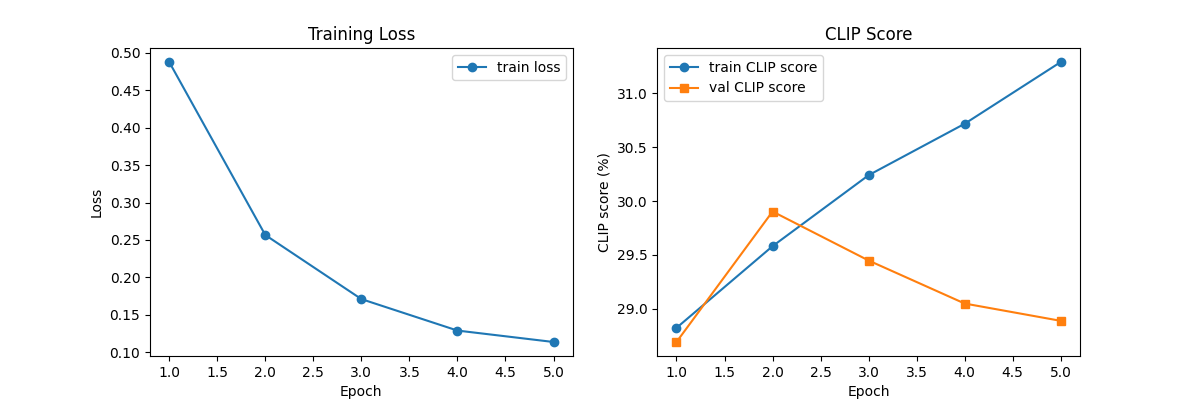
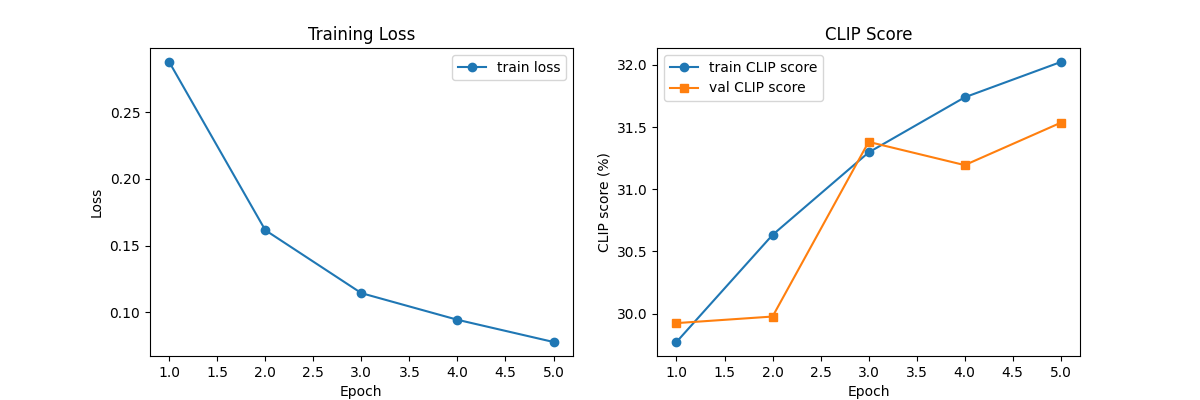
final

diff --git a/README.md b/README.md
@@ -31,7 +31,7 @@
 - Функция потерь: контрастивная
 - Оптимизатор: AdamW (lr=5e-6, weight_decay=0.01)
 - Количество эпох: 5 
-- **Достигнутый val CLIP score: >30** =
+- **Достигнутый val CLIP score: >30** = 31.54
 
 ### 3. Система поиска
 - Предвычислены эмбеддинги всех изображений (размерность 512).